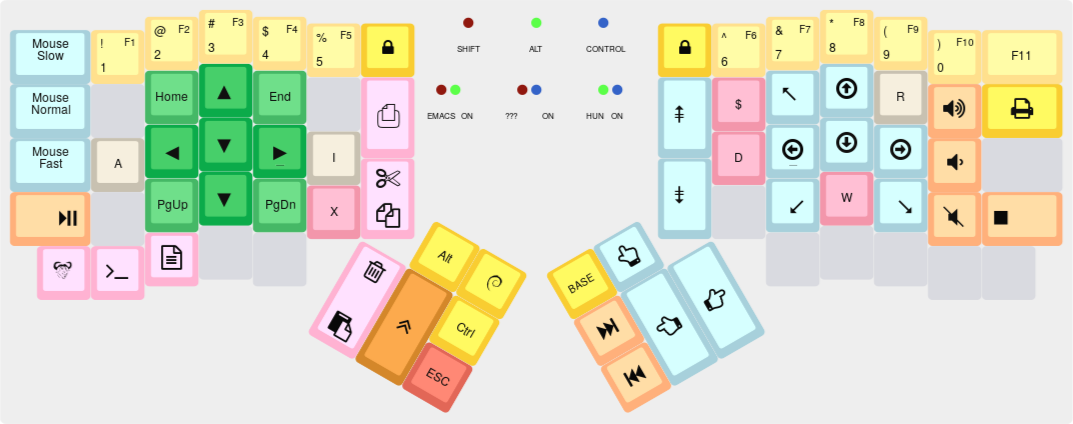
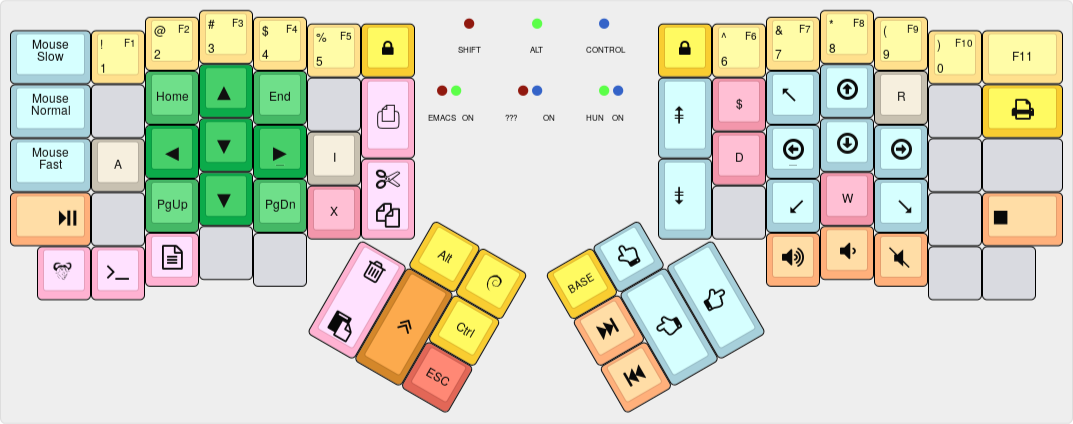
EMACS: Move volume controls to the bottom row
Fixes #12.

diff --git a/keymap.c b/keymap.c
@@ -242,13 +242,13 @@ const uint16_t PROGMEM keymaps[][MATRIX_ROWS][MATRIX_COLS] = {
  * ,-----------------------------------------------------.           ,-----------------------------------------------------.
  * | MS Slow   | 1 F1 | 2 F2 | 3 F3 | 4 F4 | 5 F5 |ScrLCK|           |ScrLCK| 6 F6 | 7 F7 | 8 F8 | 9 F9 | 0 F10|    F11    |
  * |-----------+------+------+------+------+-------------|           |------+------+------+------+------+------+-----------|
- * | MS Normal |      | Home |  Up  | End  |      |Visual|           |Scroll|  $   |MsUpL | MsUp |MsUpR |Vol Up|PrintScreen|
+ * | MS Normal |      | Home |  Up  | End  |      |Visual|           |Scroll|  $   |MsUpL | MsUp |MsUpR |      |PrintScreen|
  * |-----------+------+------+------+------+------| Mode |           |  Up  |------+------+------+------+------+-----------|
- * | MS Fast   |APPEND| Left | Down | Right| INS  |------|           |------|  D   |MsLeft| MsDn |MsRght|Vol Dn|           |
+ * | MS Fast   |APPEND| Left | Down | Right| INS  |------|           |------|  D   |MsLeft| MsDn |MsRght|      |           |
  * |-----------+------+------+------+------+------| Cut  |           |Scroll|------+------+------+------+------+-----------|
- * | Play/Pause|      | PgUp | Down | PgDn |  X   | Copy |           | Down |      |MsDnL |  W   |MsDnR | Mute |      Stop |
+ * | Play/Pause|      | PgUp | Down | PgDn |  X   | Copy |           | Down |      |MsDnL |  W   |MsDnR |      |      Stop |
  * `-----------+------+------+------+------+-------------'           `-------------+------+------+------+------+-----------'
- *      |EmacsM|TermM |OtherM|      |      |                                       |      |      |      |      |      |
+ *      |EmacsM|TermM |OtherM|      |      |                                       |Vol Up|Vol Dn| Mute |      |      |
  *      `----------------------------------'                                       `----------------------------------'
  *                                         ,-------------.           ,-------------.
  *                                         |  Alt | GUI  |           | BASE | MClk |
@@ -271,10 +271,10 @@ const uint16_t PROGMEM keymaps[][MATRIX_ROWS][MATRIX_COLS] = {
 
                                                                      // right hand
                                                                      ,LGUI(KC_L),M(KF_6) ,M(KF_7) ,M(KF_8) ,M(KF_9) ,M(KF_10),M(KF_11)
-                                                                     ,KC_WH_U   ,KC_DLR  ,M(A_MUL),KC_MS_U ,M(A_MUR),KC_VOLU ,KC_PSCR
-                                                                                ,KC_D    ,KC_MS_L ,KC_MS_D ,KC_MS_R ,KC_VOLD ,KC_NO
-                                                                     ,KC_WH_D   ,KC_NO   ,M(A_MDL),KC_MS_D ,M(A_MDR),KC_MUTE ,KC_MSTP
-                                                                                         ,KC_NO   ,KC_NO   ,KC_NO   ,KC_NO   ,KC_NO
+                                                                     ,KC_WH_U   ,KC_DLR  ,M(A_MUL),KC_MS_U ,M(A_MUR),KC_NO   ,KC_PSCR
+                                                                                ,KC_D    ,KC_MS_L ,KC_MS_D ,KC_MS_R ,KC_NO   ,KC_NO
+                                                                     ,KC_WH_D   ,KC_NO   ,M(A_MDL),KC_MS_D ,M(A_MDR),KC_NO   ,KC_MSTP
+                                                                                         ,KC_VOLU ,KC_VOLD ,KC_MUTE ,KC_NO   ,KC_NO
                                                                      ,KC_FN1    ,KC_MS_BTN3
                                                                      ,KC_MPRV
                                                                      ,KC_MNXT   ,KC_BTN1 ,KC_BTN2
